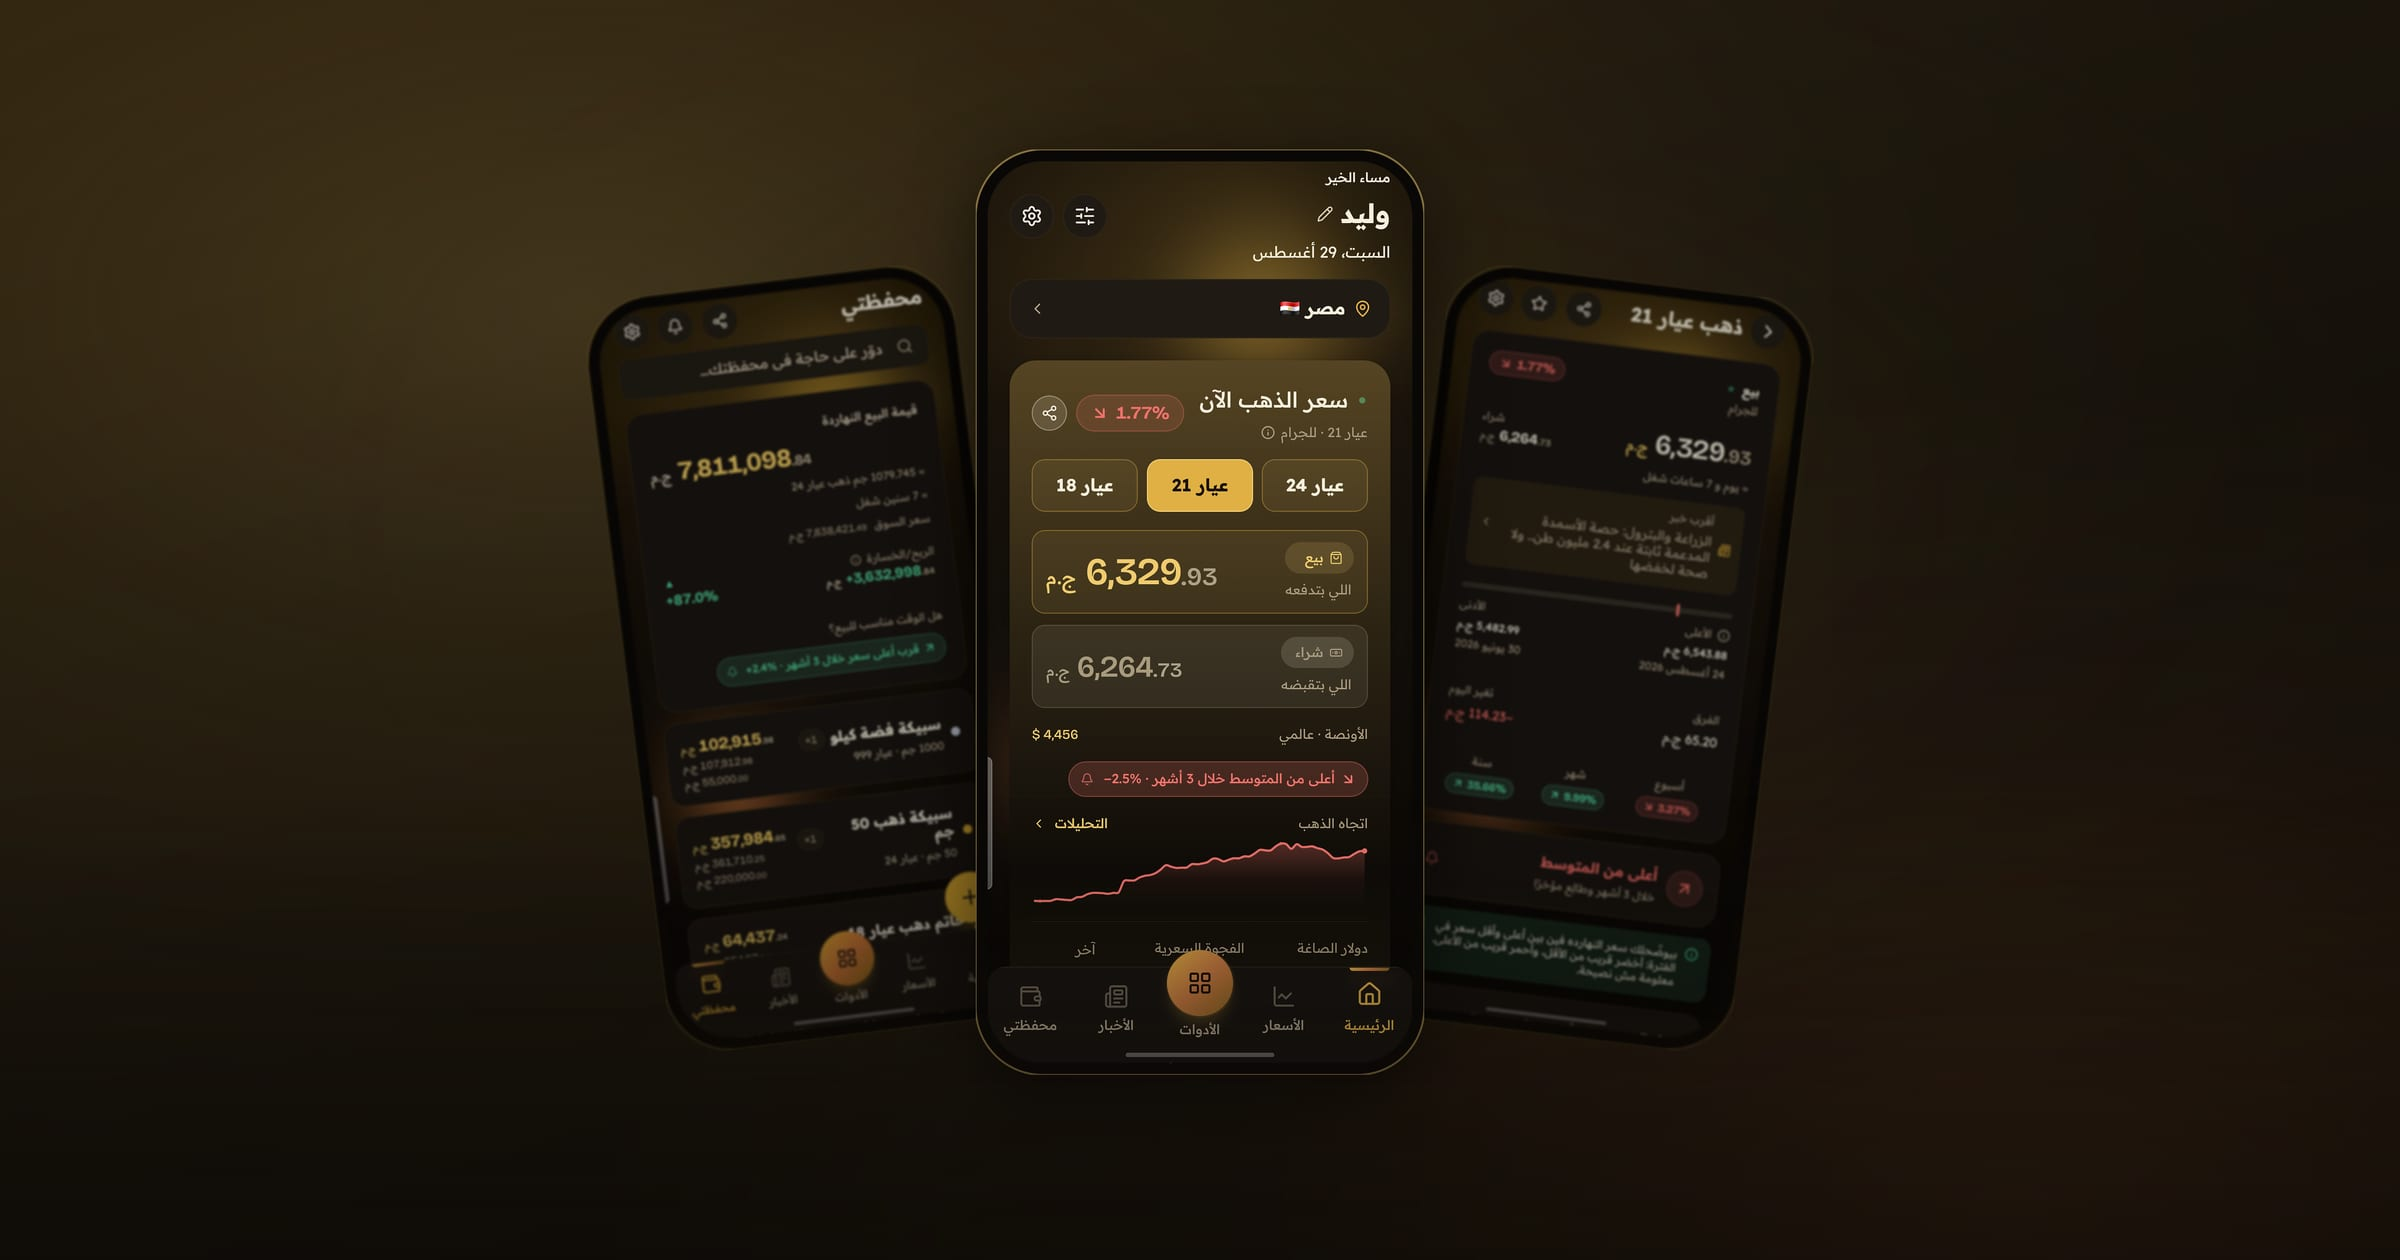
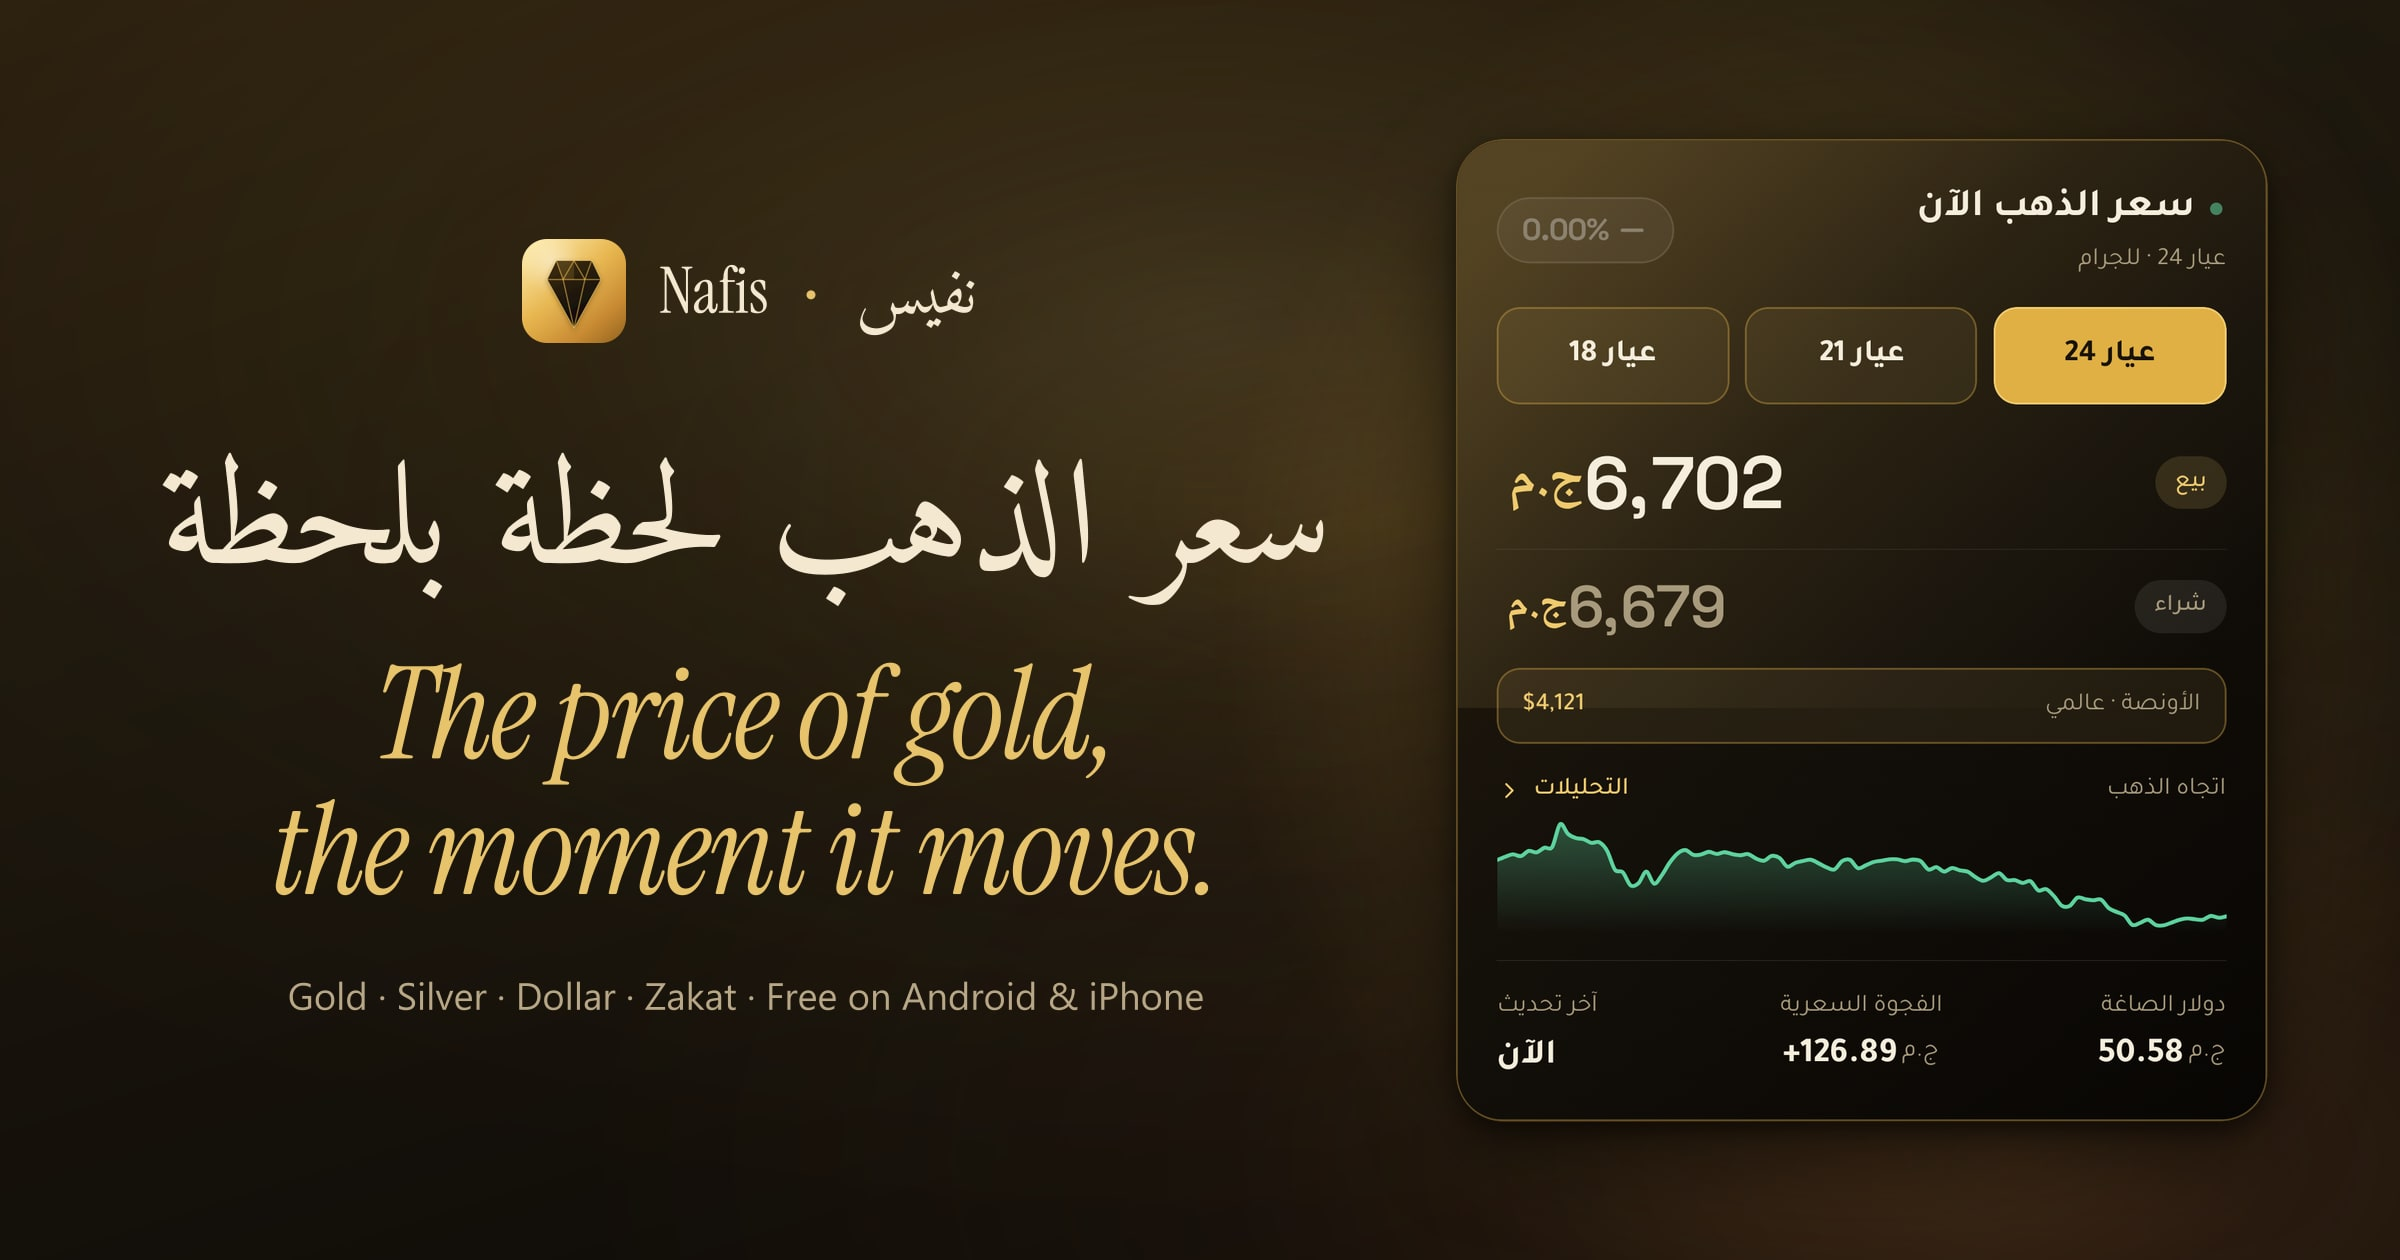
feat(go): branded link preview with the gold price card
og.jpg?v=2 so Facebook and X fetch the new card; alt text describes it.

diff --git a/go-ar.html b/go-ar.html
@@ -17,15 +17,15 @@
     <meta property="og:site_name" content="نفيس" />
     <meta property="og:locale" content="ar_EG" />
     <meta property="og:locale:alternate" content="en_US" />
-    <meta property="og:image" content="https://vette1123.github.io/nafis-privacy/og.jpg" />
+    <meta property="og:image" content="https://vette1123.github.io/nafis-privacy/og.jpg?v=2" />
     <meta property="og:image:width" content="2400" />
     <meta property="og:image:height" content="1260" />
-    <meta property="og:image:alt" content="نفيس: أسعار الذهب والفضة والدولار محليًا مع المحفظة والزكاة" />
+    <meta property="og:image:alt" content="نفيس: سعر الذهب عيار 24 اليوم بالجنيه، بيع وشراء، والأونصة واتجاه السعر" />
     <meta name="twitter:card" content="summary_large_image" />
     <meta name="twitter:title" content="نفيس: سعر الذهب اليوم والدولار والفضة والمحفظة" />
     <meta name="twitter:description" content="تطبيق نفيس يعرض سعر الذهب اليوم بالبيع والشراء للجرام في السوق المحلي، مع الفضة والدولار والعملات الرقمية ومحفظتك والزكاة وتنبيهات الأسعار. مجاني." />
-    <meta name="twitter:image" content="https://vette1123.github.io/nafis-privacy/og.jpg" />
-    <meta name="twitter:image:alt" content="نفيس: أسعار الذهب والفضة والدولار محليًا مع المحفظة والزكاة" />
+    <meta name="twitter:image" content="https://vette1123.github.io/nafis-privacy/og.jpg?v=2" />
+    <meta name="twitter:image:alt" content="نفيس: سعر الذهب عيار 24 اليوم بالجنيه، بيع وشراء، والأونصة واتجاه السعر" />
     <meta name="apple-itunes-app" content="app-id=6807595780" />
     <link rel="preconnect" href="https://vette1123.github.io" />
     <meta name="theme-color" media="(prefers-color-scheme: light)" content="#faf6ec" />

diff --git a/go.html b/go.html
@@ -17,15 +17,15 @@
     <meta property="og:site_name" content="Nafis" />
     <meta property="og:locale" content="en_US" />
     <meta property="og:locale:alternate" content="ar_EG" />
-    <meta property="og:image" content="https://vette1123.github.io/nafis-privacy/og.jpg" />
+    <meta property="og:image" content="https://vette1123.github.io/nafis-privacy/og.jpg?v=2" />
     <meta property="og:image:width" content="2400" />
     <meta property="og:image:height" content="1260" />
-    <meta property="og:image:alt" content="Nafis: local gold, silver and dollar prices with a portfolio and zakat" />
+    <meta property="og:image:alt" content="Nafis: today's 24k gold price in Egyptian pounds, buy and sell, the ounce and the trend" />
     <meta name="twitter:card" content="summary_large_image" />
     <meta name="twitter:title" content="Nafis: Gold Price App, Silver, Dollar &amp; Portfolio" />
     <meta name="twitter:description" content="Nafis is a free gold price app: today's local buy and sell price per gram, plus silver, dollar and crypto rates, your portfolio, zakat and price alerts." />
-    <meta name="twitter:image" content="https://vette1123.github.io/nafis-privacy/og.jpg" />
-    <meta name="twitter:image:alt" content="Nafis: local gold, silver and dollar prices with a portfolio and zakat" />
+    <meta name="twitter:image" content="https://vette1123.github.io/nafis-privacy/og.jpg?v=2" />
+    <meta name="twitter:image:alt" content="Nafis: today's 24k gold price in Egyptian pounds, buy and sell, the ounce and the trend" />
     <meta name="apple-itunes-app" content="app-id=6807595780" />
     <link rel="preconnect" href="https://vette1123.github.io" />
     <meta name="theme-color" media="(prefers-color-scheme: light)" content="#faf6ec" />

diff --git a/index.html b/index.html
@@ -17,11 +17,11 @@
     <meta name="apple-itunes-app" content="app-id=6807595780" />
     <link rel="canonical" href="https://www.mohamedgado.com/projects/nafis/privacy" />
     <meta property="og:site_name" content="Nafis" />
-    <meta property="og:image" content="https://vette1123.github.io/nafis-privacy/og.jpg" />
+    <meta property="og:image" content="https://vette1123.github.io/nafis-privacy/og.jpg?v=2" />
     <meta name="twitter:card" content="summary_large_image" />
     <meta name="twitter:title" content="Nafis · Privacy Policy · سياسة الخصوصية" />
     <meta name="twitter:description" content="سياسة خصوصية تطبيق نفيس (Nafis) بالعربية والإنجليزية. Privacy policy for the Nafis app: what stays on your device, what leaves it, and why." />
-    <meta name="twitter:image" content="https://vette1123.github.io/nafis-privacy/og.jpg" />
+    <meta name="twitter:image" content="https://vette1123.github.io/nafis-privacy/og.jpg?v=2" />
     <meta property="og:title" content="Nafis · Privacy Policy · سياسة الخصوصية" />
     <meta
       property="og:description"
@@ -97,7 +97,7 @@
     <link rel="apple-touch-icon" href="https://vette1123.github.io/nafis-privacy/icon.png" />
     <meta property="og:image:width" content="2400" />
     <meta property="og:image:height" content="1260" />
-    <meta property="og:image:alt" content="Nafis on three phones: live gold prices, a holdings vault and a price alert" />
+    <meta property="og:image:alt" content="Nafis: today's 24k gold price in Egyptian pounds, buy and sell, the ounce and the trend" />
   </head>
   <body>
     <a class="skip" href="#main">تخطي إلى المحتوى / Skip to content</a>
